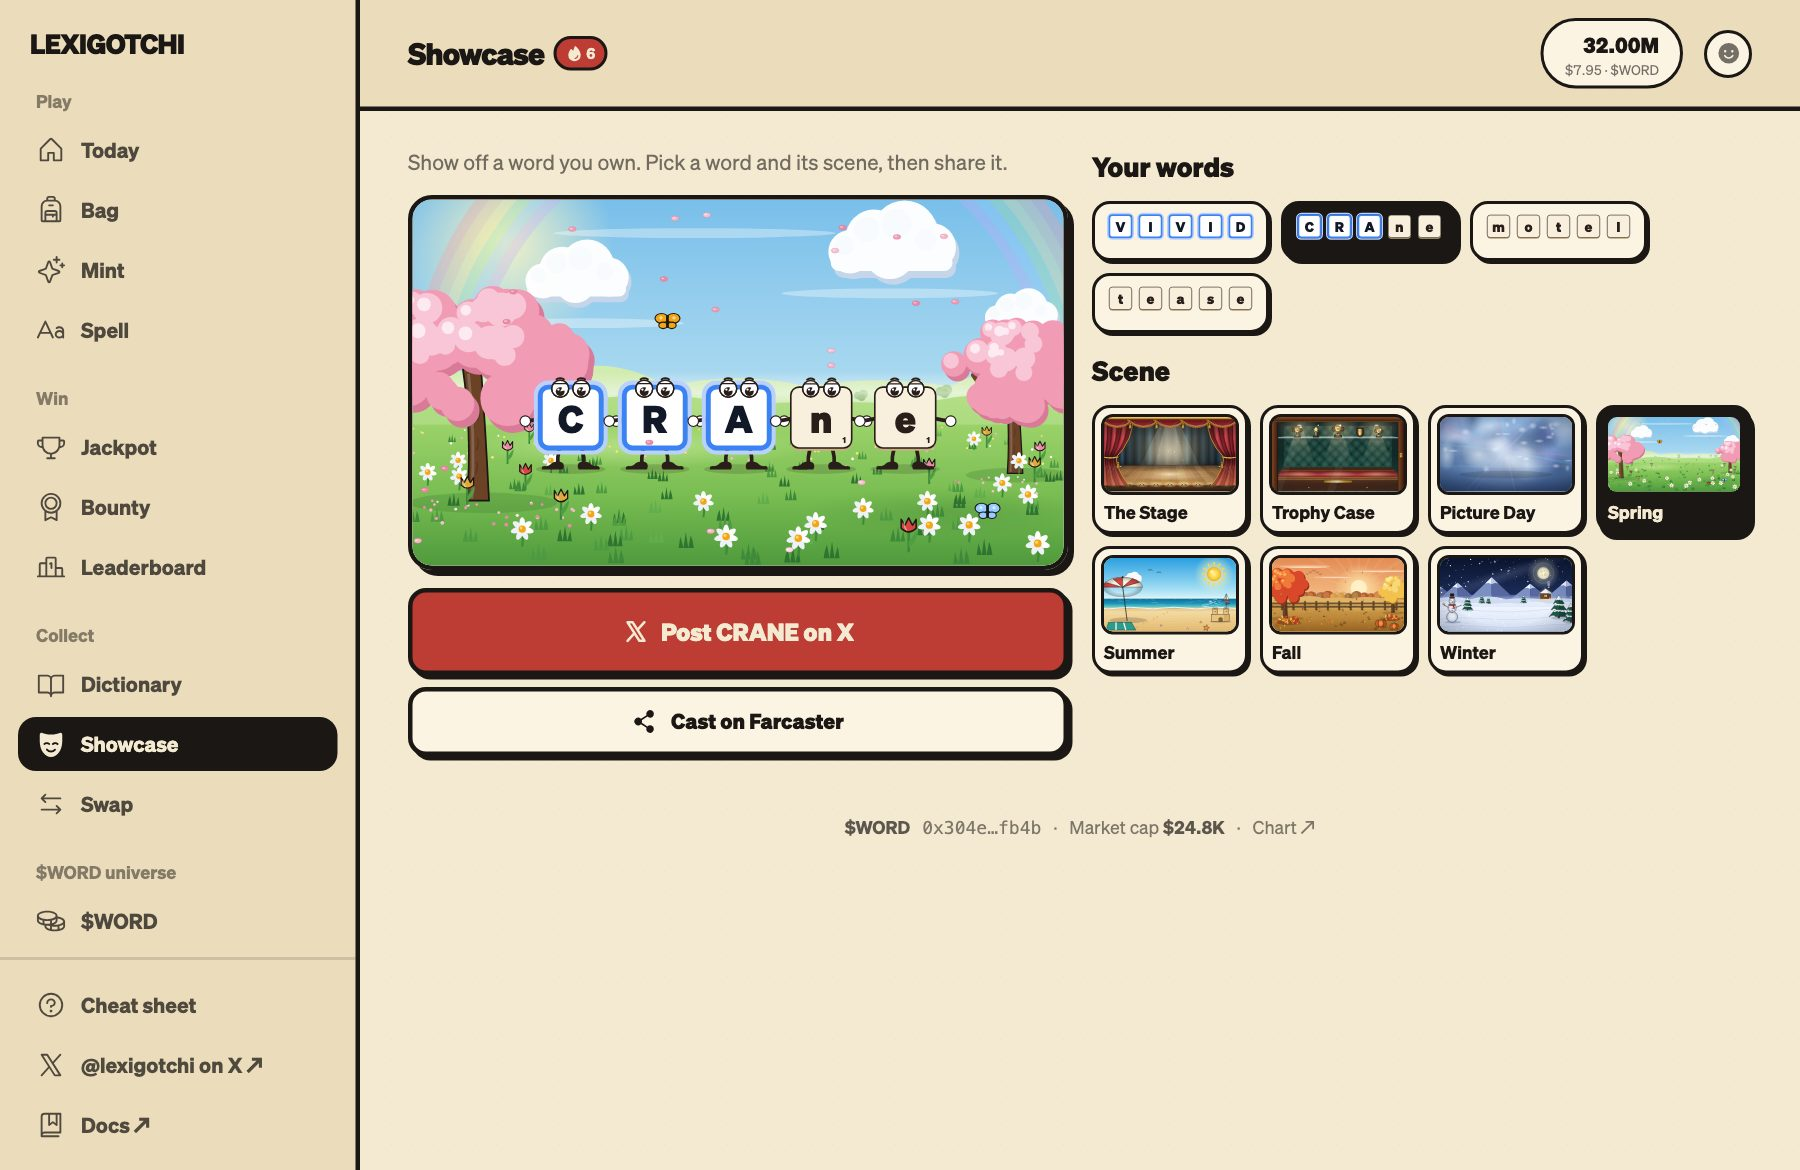
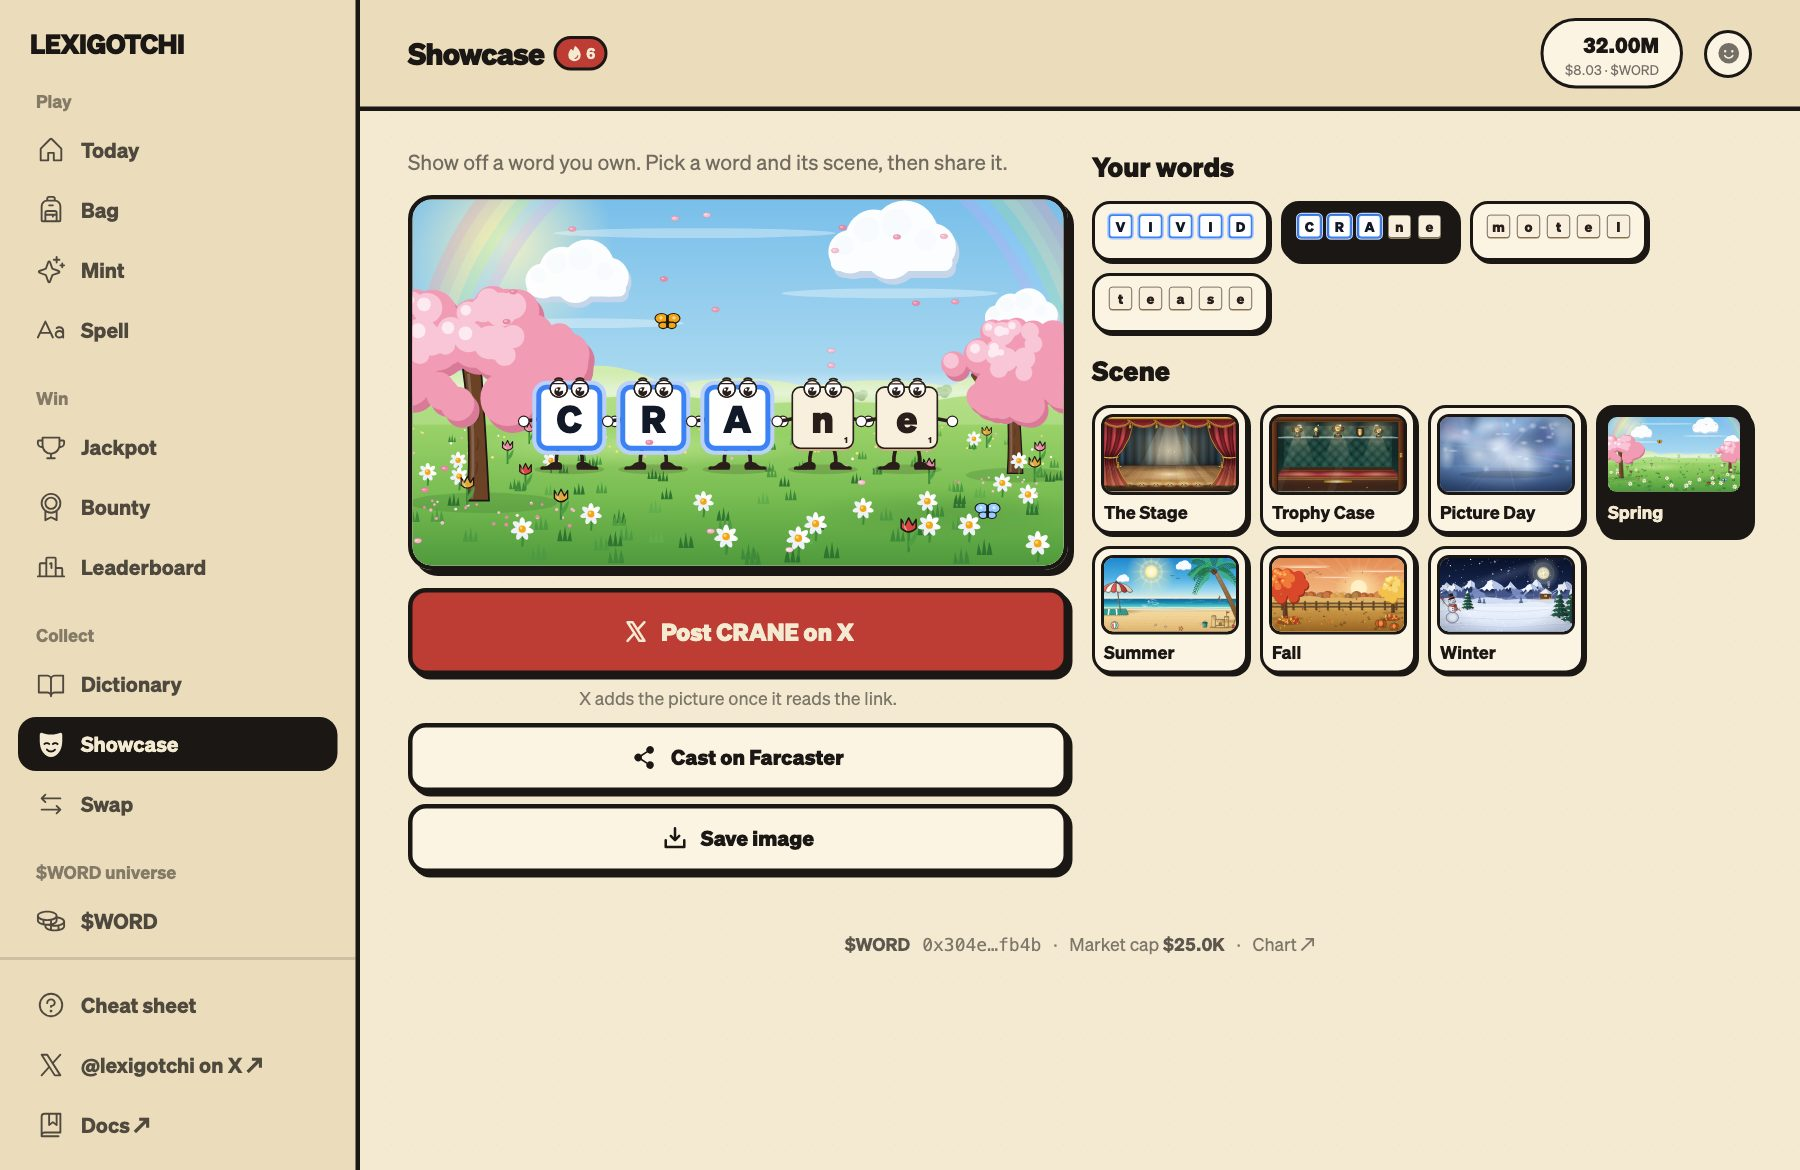
Showcase: Save image, and say X adds the picture once it reads the link
Save image keeps the word's X card as a PNG: the share sheet on phones
(Save Image puts it in the camera roll; the card is fetched ahead, since
iOS opens the sheet only from the tap itself), a download on computers, and
the browser (press and hold) inside a host with no share sheet.

X's composer shows no card for a link X hasn't read yet, even one with a
fast static image (tested 2026-11-24), and every new word or scene is a new
link. A line under the X button says the picture comes once X reads it.
Docs, the Showcase screenshot, and CLAUDE.md updated.

diff --git a/src/components/game/useShare.ts b/src/components/game/useShare.ts
@@ -6,7 +6,7 @@
  * tab. Every cast embeds a link, so each share renders a launchable Lexigotchi card: the organic
  * growth loop the spec calls out (every showcase is an ad).
  */
-import { useCallback } from "react";
+import { useCallback, useEffect, useRef } from "react";
 import { useViewer } from "./useViewer";
 import { useGame } from "./state";
 import { SITE_URL } from "@/lib/site";
@@ -87,4 +87,97 @@ export function usePostToX() {
     },
     [v.environment, g],
   );
+}
+
+/** A phone or tablet: saving goes through the share sheet, whose "Save Image" reaches the camera roll. */
+const touchFirst = () => typeof window !== "undefined" && window.matchMedia("(pointer: coarse)").matches;
+
+/**
+ * Save a picture (a Showcase card) to the device (starl3xx, 2026-11-24: "allow users to download
+ * their image somehow (or save to camera roll)"). `src` is same-origin, so its bytes can be read.
+ *
+ * - A phone gets the share sheet with the file: "Save Image" puts it in the camera roll. iOS opens
+ *   the sheet only from the tap itself, and a card can take seconds to draw, so on phones the bytes
+ *   are fetched AHEAD, shortly after the word or scene settles. A sheet the tap's activation no
+ *   longer covers is refused (NotAllowedError); the bytes are ready by then, so a second tap works.
+ * - A computer downloads the file.
+ * - A mini-app host with no share sheet opens the picture in the browser (a download in its web
+ *   view does nothing), where pressing and holding saves it.
+ */
+export function useSaveImage(src: string | null, filename: string) {
+  const v = useViewer();
+  const g = useGame();
+  const ready = useRef<{ src: string; blob: Blob } | null>(null);
+
+  useEffect(() => {
+    if (!src || !touchFirst()) return;
+    const ctl = new AbortController();
+    // Waits out a player flicking through scenes, so only the one they stop on is fetched.
+    const id = window.setTimeout(() => {
+      fetch(src, { signal: ctl.signal })
+        .then((r) => (r.ok ? r.blob() : null))
+        .then((blob) => {
+          if (blob) ready.current = { src, blob };
+        })
+        .catch(() => {});
+    }, 800);
+    return () => {
+      window.clearTimeout(id);
+      ctl.abort();
+    };
+  }, [src]);
+
+  return useCallback(async () => {
+    if (!src) return;
+    const openInBrowser = async () => {
+      try {
+        const sdk = (await import("@farcaster/miniapp-sdk")).default;
+        await sdk.actions.openUrl(new URL(src, window.location.href).toString());
+        g.toast("Press and hold the picture to save it", "info");
+        return true;
+      } catch {
+        return false;
+      }
+    };
+    const sheet = touchFirst() && typeof navigator.canShare === "function";
+    // A host's web view with no share sheet can't keep a file: open the picture without fetching it.
+    if (v.environment === "farcaster" && !sheet && (await openInBrowser())) return;
+
+    let blob = ready.current?.src === src ? ready.current.blob : null;
+    if (!blob) {
+      try {
+        const r = await fetch(src);
+        if (!r.ok) throw new Error(String(r.status));
+        blob = await r.blob();
+        ready.current = { src, blob };
+      } catch {
+        g.toast("Couldn’t get the picture. Try again", "bad");
+        return;
+      }
+    }
+    const file = new File([blob], filename, { type: blob.type || "image/png" });
+    if (sheet && navigator.canShare({ files: [file] })) {
+      try {
+        await navigator.share({ files: [file] });
+      } catch (e) {
+        const name = (e as { name?: string })?.name;
+        // AbortError: the player closed the sheet, which is an answer, not a failure.
+        if (name === "NotAllowedError") g.toast("The picture is ready. Tap Save image again", "info");
+        else if (name !== "AbortError") g.toast("Couldn’t open the share sheet", "bad");
+      }
+      return;
+    }
+    // A sheet that can't take this file: a host opens it in the browser, the web downloads it.
+    if (v.environment === "farcaster" && (await openInBrowser())) return;
+    const url = URL.createObjectURL(blob);
+    const a = document.createElement("a");
+    a.href = url;
+    a.download = filename;
+    document.body.appendChild(a);
+    a.click();
+    a.remove();
+    // Revoked later, not at once: some browsers read the link after click() returns.
+    window.setTimeout(() => URL.revokeObjectURL(url), 30_000);
+    g.toast("Saving the picture to your downloads", "good");
+  }, [src, filename, v.environment, g]);
 }

diff --git a/src/components/game/screens/ShowcaseScreen.tsx b/src/components/game/screens/ShowcaseScreen.tsx
@@ -11,14 +11,14 @@ import { useAccount } from "wagmi";
 import { Button, EmptyState, SectionTitle } from "../primitives";
 import { WordTiles } from "../LetterTile";
 import type { Gild } from "../TileCharacter";
-import { ShareNetwork, TextAa, XLogo } from "../ui/icons";
+import { DownloadSimple, ShareNetwork, TextAa, XLogo } from "../ui/icons";
 import { useGame } from "../state";
 import { byBest } from "../stagePick";
-import { usePostToX, useShare } from "../useShare";
+import { usePostToX, useSaveImage, useShare } from "../useShare";
 import { SceneFrame } from "../../scenes/SceneFrame";
 import { ScenePicker } from "../../scenes/ScenePicker";
 import { useWordScene } from "../../scenes/useWordScene";
-import { showcasePostText, showcaseUrl, showcaseWordText, showcaseXText } from "@/lib/showcase";
+import { showcaseCardPath, showcasePostText, showcaseUrl, showcaseWordText, showcaseXText } from "@/lib/showcase";
 import { ACHIEVEMENT_META } from "@/lib/keeper/achievements";
 import { usePlayerWallets } from "../usePlayerWallets";
 import { WordsPending, wordsUnknown } from "../WordsPending";
@@ -53,6 +53,11 @@ export function ShowcaseScreen() {
   const [picked, setPicked] = useState<string | null>(null);
   const w = words.find((x) => x.word === picked) ?? words[0];
   const { scene } = useWordScene(w?.word);
+  // The card X and Farcaster show, saved as a file (before the early return: it's a hook).
+  const saveImage = useSaveImage(
+    w ? showcaseCardPath(showcaseWordText(w.word, w.upper), "x", scene) : null,
+    w ? `lexigotchi-${w.word.toLowerCase()}-${scene}.png` : "lexigotchi.png",
+  );
 
   const intro = (
     <div>
@@ -113,8 +118,14 @@ export function ShowcaseScreen() {
           <Button full size="lg" variant="primary" onClick={() => postToX({ text: showcaseXText(text), url: showcaseUrl(text, scene) })}>
             <XLogo weight="bold" /> Post {w.word} on X
           </Button>
+          {/* X's composer shows no card for a link it hasn't read yet, and each new word or scene is a
+              new link: the card comes once X has read it (tested 2026-11-24, even with a fast image). */}
+          <p className="text-center text-xs text-ink/55">X adds the picture once it reads the link.</p>
           <Button full variant="ghost" onClick={() => share({ text: showcasePostText(text), embed: showcaseUrl(text, scene) })}>
             <ShareNetwork weight="fill" /> Cast on Farcaster
+          </Button>
+          <Button full variant="ghost" onClick={() => void saveImage()}>
+            <DownloadSimple weight="bold" /> Save image
           </Button>
         </div>
       </div>

diff --git a/src/lib/showcase.ts b/src/lib/showcase.ts
@@ -70,7 +70,15 @@ export function showcaseUrl(text: string, scene?: SceneId): string {
 
 /** The card picture. X: 1200×630 (1.91:1). Farcaster: 1200×800 (3:2, the embed spec). */
 export function showcaseCardUrl(text: string, ratio: "x" | "fc" = "x", scene?: SceneId): string {
-  return `${SITE_URL}/s/${text}/card${sceneQuery(scene, ratio === "fc" ? { ratio: "3x2" } : {})}`;
+  return `${SITE_URL}${showcaseCardPath(text, ratio, scene)}`;
+}
+
+/**
+ * The card's path on this site. The game reads the picture through it (Save image), because
+ * `SITE_URL` may name another origin than the page's (a preview build, localhost).
+ */
+export function showcaseCardPath(text: string, ratio: "x" | "fc" = "x", scene?: SceneId): string {
+  return `/s/${text}/card${sceneQuery(scene, ratio === "fc" ? { ratio: "3x2" } : {})}`;
 }
 
 /** The cast's words. The link goes separately as the cast's embed. */

diff --git a/src/components/game/ui/icons.tsx b/src/components/game/ui/icons.tsx
@@ -39,6 +39,7 @@ export {
   MagnifyingGlass,
   ShareNetwork,
   XLogo,
+  DownloadSimple,
   LinkSimple,
   X,
   Basket,

diff --git a/CLAUDE.md b/CLAUDE.md
@@ -250,7 +250,12 @@ for the mini app; sim/economy core is **zero-runtime-dependency TS** (runs via `
   is `/s/<word>/card` (1200×630 for X; `?ratio=3x2` for the `fc:miniapp` embed). **Only the player's
   own words** (decisions.md #15): the page and card draw dictionary words only (`parseShowcase`), plus
   `HOUSE_CARDS` (the Telegram HEYOO welcome); anything else is a 404, so a link can't put free text
-  on the game's card.
+  on the game's card. **X's composer shows no card for a link X hasn't read yet** (tested 2026-11-24:
+  a never-posted link with a fast static image showed none either; a second paste later did). It is
+  not our card's speed, so the Showcase says "X adds the picture once it reads the link." **Save
+  image** (`useSaveImage` in `useShare.ts`, the same-origin `showcaseCardPath`) keeps the X card: the
+  share sheet on phones (bytes fetched ahead, since iOS opens the sheet only from the tap itself), a
+  download on computers, the browser (press and hold) in a host with no share sheet.
 - **Scenes** (decisions.md #15; `src/lib/scenes.ts` = the list and the unlock, `SCENE_UNLOCK_WORDS`
   = 3 words ever held, so it stays open after a dissolve: `state.wordsEverHeld`, from
   `readWordsHeld`'s transfer scan; `src/components/scenes/`): each word's home on the Today stage
